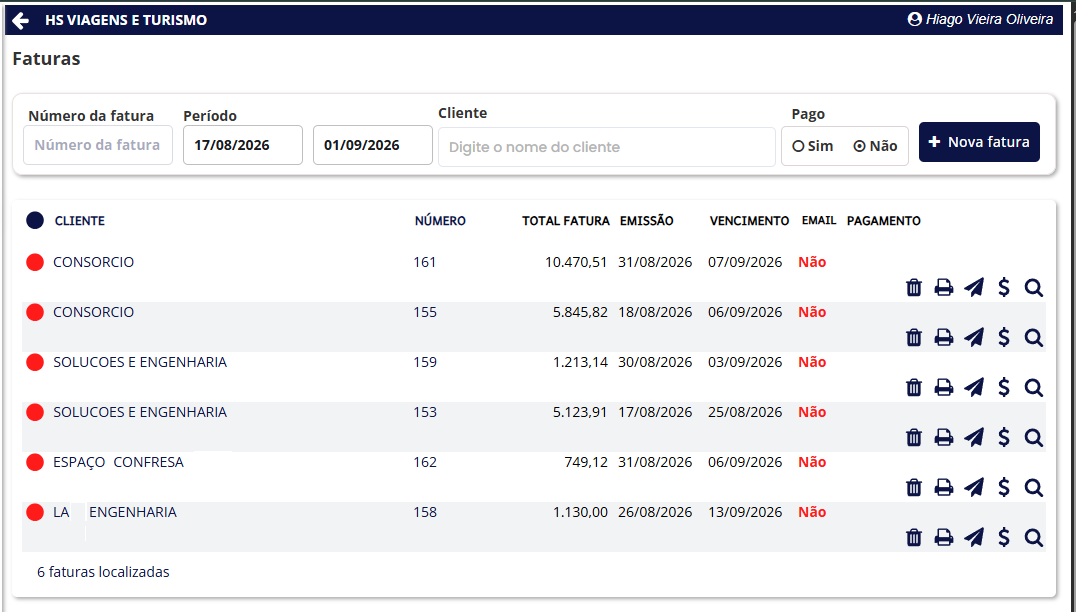
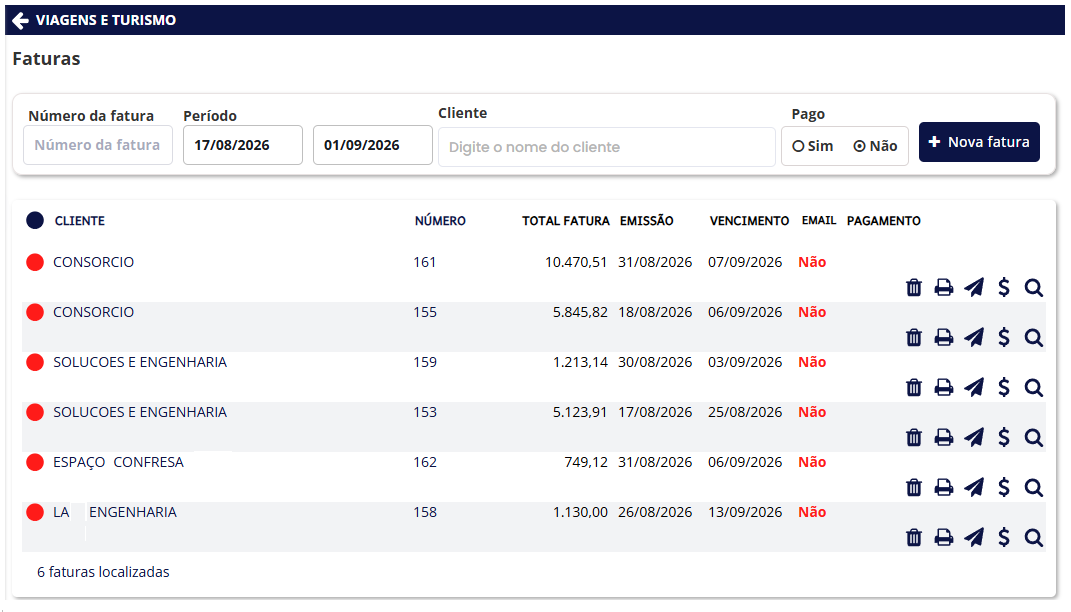
Atualiza número de WhatsApp e reexporta screenshot de consulta de faturas

diff --git a/index.html b/index.html
@@ -574,7 +574,7 @@
 
 <script>
   // WhatsApp links
-  var WA_NUMBER = '5565981740102';
+  var WA_NUMBER = '5565999826225';
   var WA_TEXT = encodeURIComponent('Olá! Vim pela landing page do Fatura Passagem e quero saber mais sobre o sistema para minha agência.');
   var waHref = 'https://wa.me/' + WA_NUMBER + '?text=' + WA_TEXT;
   document.querySelectorAll('[data-wa]').forEach(function (a) {
